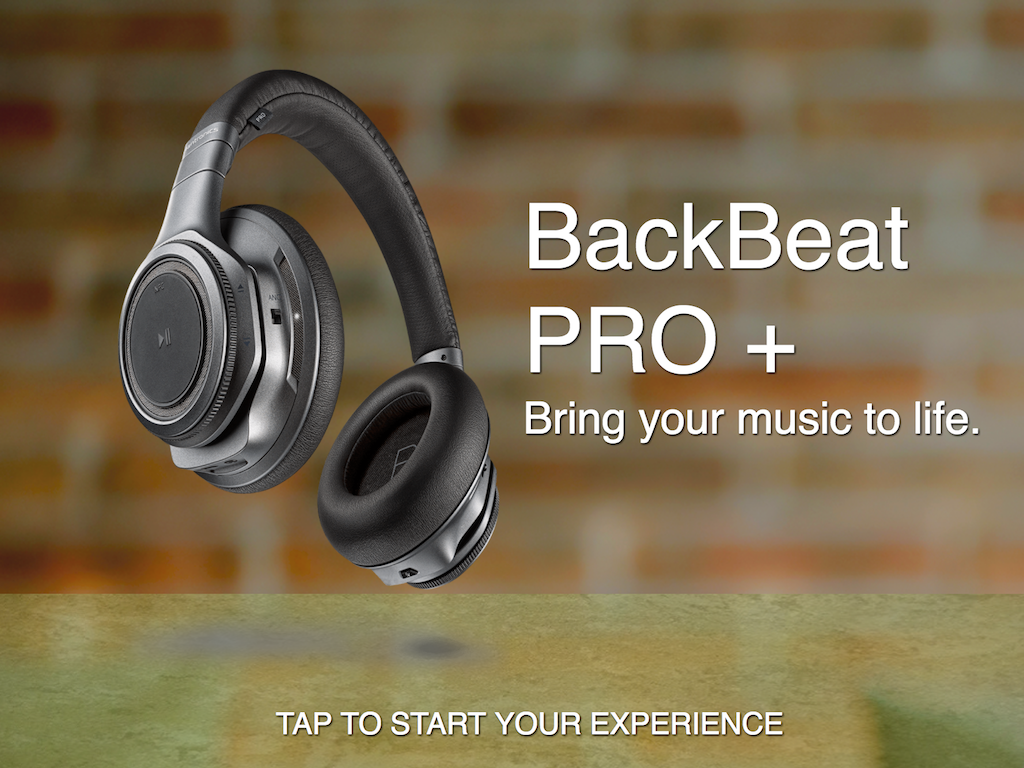
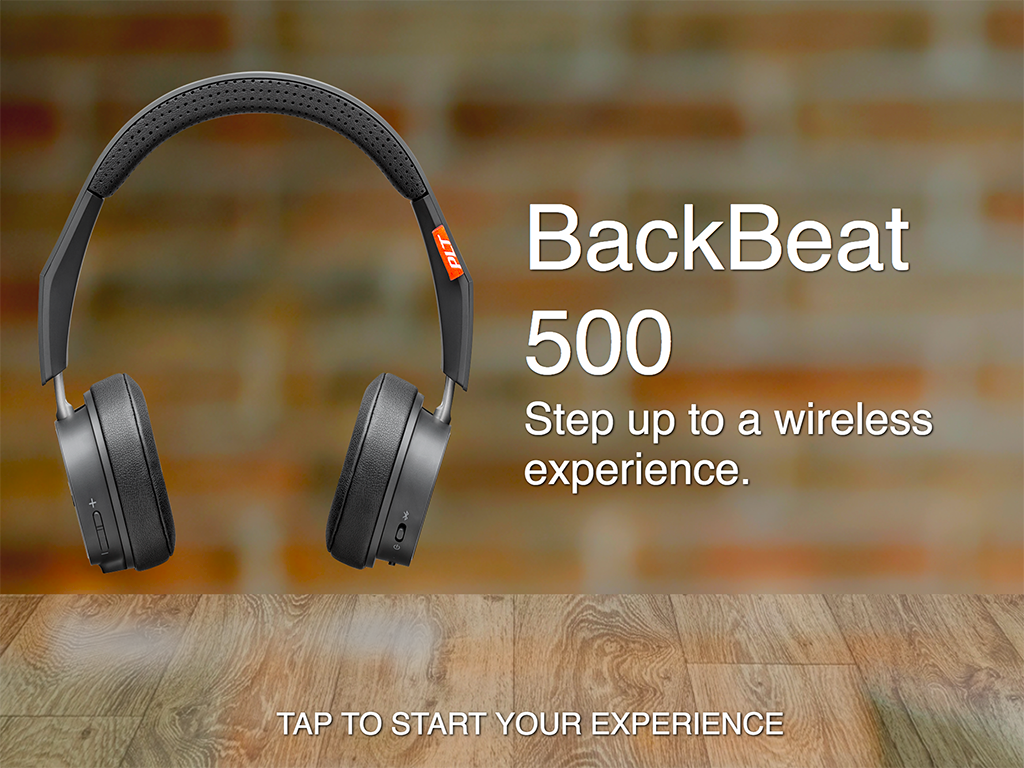
added BB500 to exhibit 1

diff --git a/EBC App/www/exhibit1.html b/EBC App/www/exhibit1.html
@@ -221,44 +221,45 @@
                     <div class="row padded">
                         <div class="col-6">
                             <div class="header-text">
-                                <div id="main-header">BackBeat PRO + </div>
-                                <div id="secondary-header">Bring your music to life.</div>
+                                <div id="main-header">BackBeat 500</div>
+                                <div id="secondary-header">Step up to a wireless experience.</div>
                             </div>
                             <div class="features">
                                 <h3>KEY FEATURES</h3>
                                 <ul>
                                     <li class="main-feature" id="feature10">
-                                        Bluetooth USB Adapter
+                                        Multi-device Connectivity
                                         <ul>
-                                            <li>The Class 1 Bluetooth wireless USB adapter brings high fidelity to the standard Bluetooth® experience from computers.</li>
+                                            <li>Multipoint Bluetooth lets you automatically connect up to two devices simultaneously, and pair up to eight.</li>
                                         </ul>
                                     </li>
                                     <li class="main-feature" id="feature11">
-                                        Audio Quality 
+                                        Immersive Audio
                                         <ul>
-                                            <li>The Plantronics signature audio profile delivers a detailed balance of rich bass, crisp highs, and natural midtones from mobile devices, and the Bluetooth USB adapter brings the high-fidelity experience to computers.</li>
+                                            <li>Advanced acoustic technology delivers the right balance and deep, rich sound.</li>
                                         </ul>
                                     </li>
                                     <li class="main-feature" id="feature12">
-                                        Active Noise Canceling (ANC)
+                                        DeepSleep Mode
                                         <ul>
-                                            <li>Immerse yourself in music and block out background noise while working, relaxing, and traveling with on-demand active noise-canceling (ANC) technology.</li>
+                                            <li>DeepSleep hibernation mode maintains battery charge for up to six months when your headphones are out of range or left on.</li>
                                         </ul>
                                     </li>
                                     <div class="show-more">
                                         <li class="main-feature">
-                                            24-hour Streaming
+                                            Enjoy up to 18 hours of wireless listening
                                         </li>
                                         <li class="main-feature">
-                                            Stream up to 100m/330ft
+                                            Easy on-ear controls
                                         </li>
                                         <li class="main-feature">
-                                            Smart Power Management 
+                                            Memory Foam Earcups
                                         </li>
                                     </div>
                                     <li class="view-more">
                                         View More...
                                     </li>
+                                    <img src="media/pltLogo.png" class="pltImage modalClick" onClick="video_url('https://www.youtube.com/embed/fj-tTjIvkl4?rel=0&autoplay=1&showinfo=0&controls=2');">
                                 </ul>
                             </div>
                         </div>
@@ -266,7 +267,7 @@
                             <div class="center">
                                 <div class="spot-container">
                                     <div class="product">
-                                        <img src="media/exhibit1/product-3.png" class="prodImg">
+                                        <img src="media/exhibit1/product-3.png" id="bb500">
                                     </div>
                                     <div id="spot10-off" class="spot"></div>
                                     <div id="spot11-off" class="spot"></div>

diff --git a/EBC App/www/css/style_exhibit1.css b/EBC App/www/css/style_exhibit1.css
@@ -37,6 +37,12 @@
     z-index: 2;
     margin-top: 160px;
 }
+#bb500{
+    height: 560px;
+    width: 465px;
+    position: relative;
+    z-index: 10;
+}
 .prodImg{
     height: 560px;
     width: 400px;
@@ -126,7 +132,7 @@ width: 83.33%;
     position: relative;
 }
 #footer4{
-    background-image: url("../media/linoleum3.jpg");
+    background-image: url("../media/woodgrain2.jpg");
     height: 240px;
     background-repeat: no-repeat;
     bottom: 95px;
@@ -359,14 +365,14 @@ h3{
 }
 #spot10 {
     position: absolute;
-    bottom: 28%;
-    left: 13%;
+    bottom: 16%;
+    left: 63%;
     z-index:10;
 }
 #spot10-off {
     position: absolute;
-    bottom: 35%;
-    left: 21%;
+    bottom: 24%;
+    left: 71%;
     z-index:10;
     height: 10px;
     width: 10px;
@@ -374,27 +380,27 @@ h3{
 #spot11 {
     position: absolute;
     bottom: 29%;
-    left: 48%;
+    left: 54%;
     z-index:10;
 }
 #spot11-off {
     position: absolute;
     bottom: 36%;
-    left: 56%;
+    left: 62%;
     z-index:10;
     height: 10px;
     width: 10px;
 }
 #spot12 {
     position: absolute;
-    top: 31%;
-    right: 55%;
+    top: 72%;
+    right: 71%;
     z-index:10;
 }
 #spot12-off {
     position: absolute;
-    top: 38%;
-    right: 63%;
+    top: 79%;
+    right: 79%;
     z-index:10;
     height: 10px;
     width: 10px;

diff --git a/EBC App/www/screensavers/BB500-screensaver.html b/EBC App/www/screensavers/BB500-screensaver.html
@@ -19,10 +19,10 @@
         }
         .prodImg{
             height: 625px;
-            width: 400px;
+            width: 465px;
             position: absolute;
             z-index: 10;
-            left: 110px;
+            left: 25px;
             top:63px;
 
         }
@@ -49,12 +49,12 @@
     <body>
         <div class="row">
                 <div class="col-6">
-                    <img src="../media/exhibit1/product-4.png" class="prodImg">
+                    <img src="../media/exhibit1/product-3.png" class="prodImg">
                 </div>
                 <div class="col-6">
                     <div class="text-screensaver">
-                        <div id="main-header" class="header-0">BackBeat PRO +</div>
-                        <div id="secondary-header">Bring your music to life.</div>
+                        <div id="main-header" class="header-0">BackBeat 500</div>
+                        <div id="secondary-header">Step up to a wireless experience.</div>
                     </div>
                 </div>
         </div>

diff --git a/EBC App/www/js/swiper_exhibit1.js b/EBC App/www/js/swiper_exhibit1.js
@@ -1177,7 +1177,7 @@
             if (!s.params.pagination) return;
             if (s.paginationContainer && s.paginationContainer.length > 0) {
                 var paginationHTML = '';
-                var titles = ["BACKBEAT PRO 2", "BACKBEAT FIT", "BACKBEAT SENSE", "BACKBEAT PRO +"];
+                var titles = ["BACKBEAT PRO 2", "BACKBEAT FIT", "BACKBEAT SENSE", "BACKBEAT 500"];
                 if (s.params.paginationType === 'bullets') {
                     var numberOfBullets = s.params.loop ? Math.ceil((s.slides.length - s.loopedSlides * 2) / s.params.slidesPerGroup) : s.snapGrid.length;
                     for (var i = 0; i < numberOfBullets; i++) {
